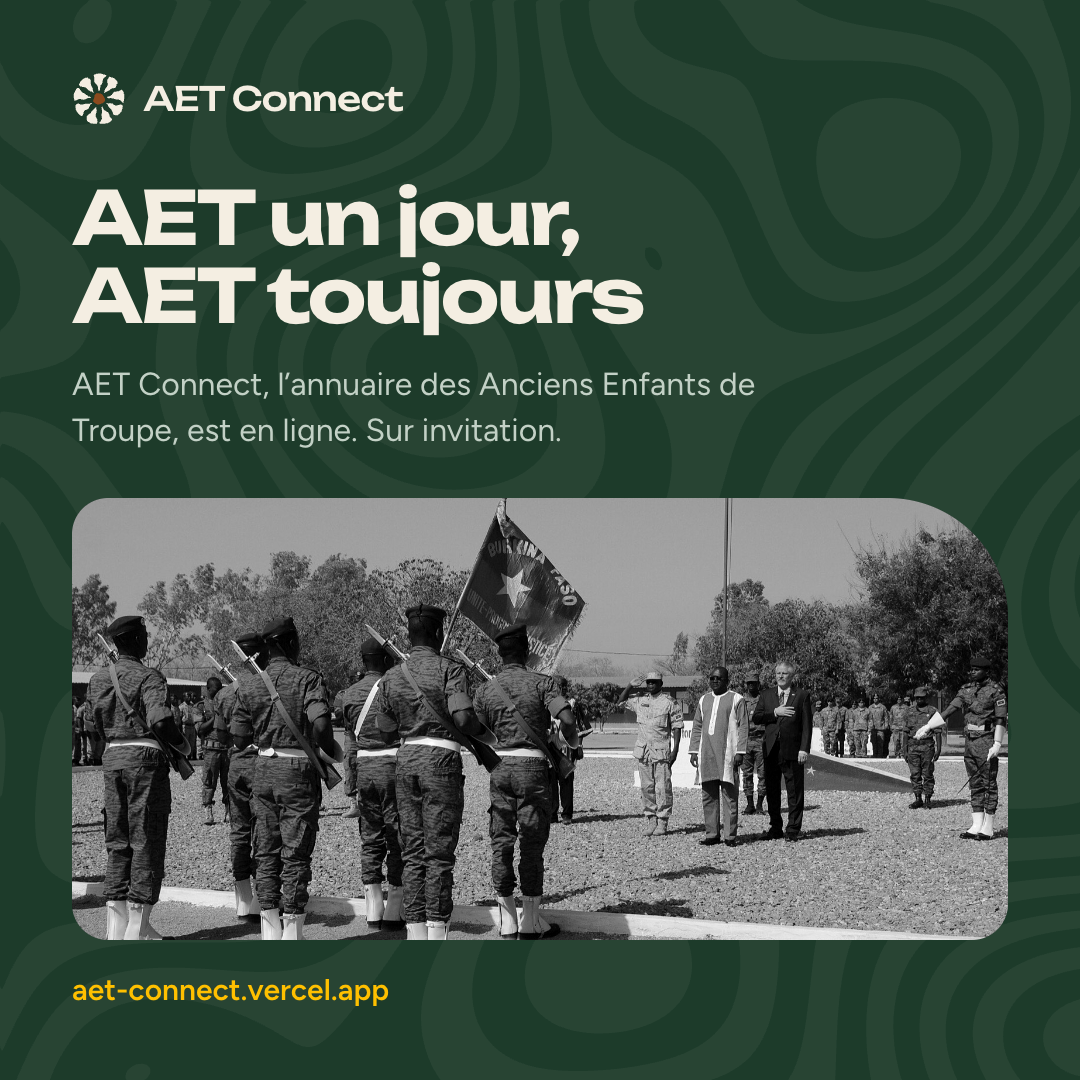
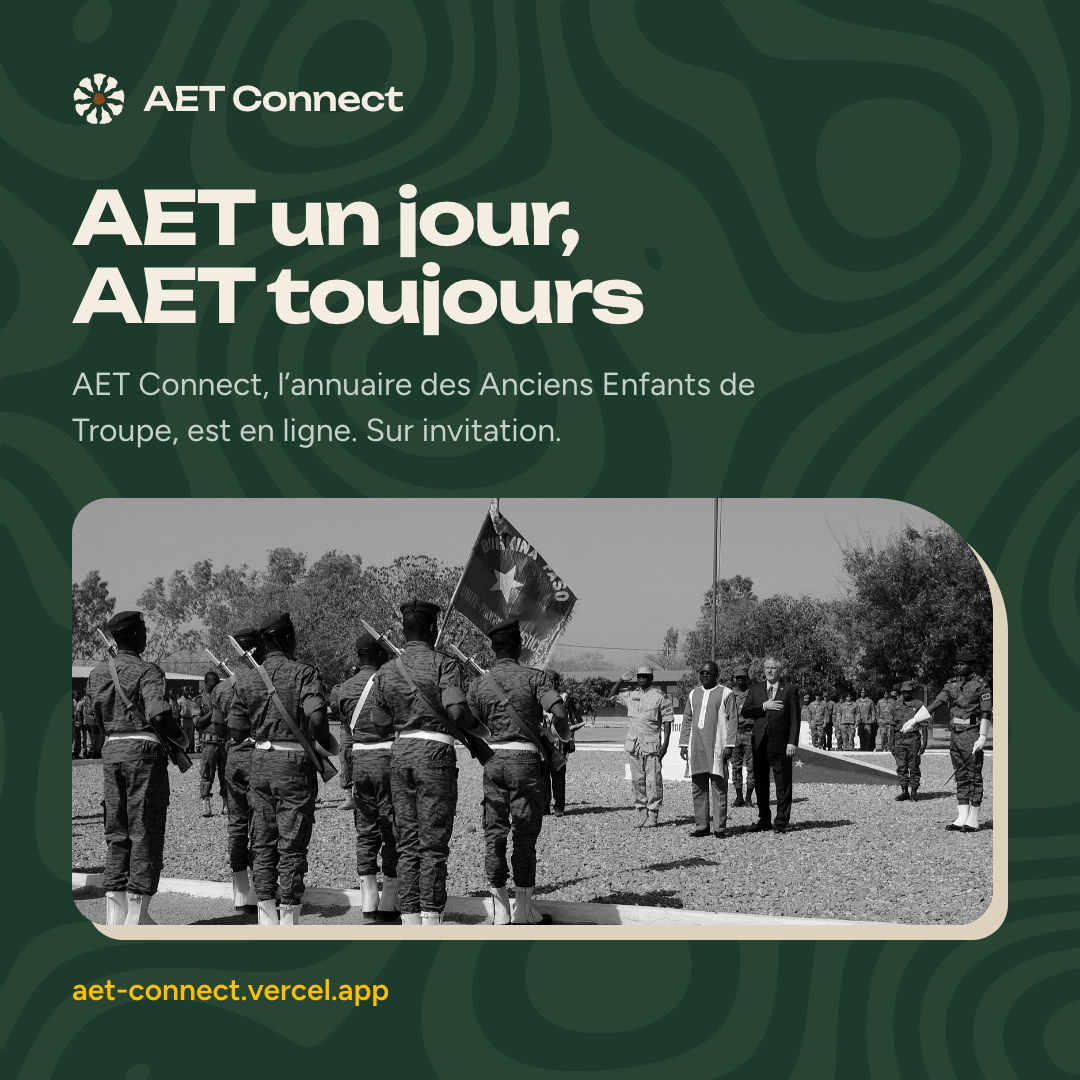
kit réseaux : ombre beige nette décalée derrière les photos, cadrages des visages

Changed region(s): [[0.0611, 0.4583, 0.9472, 0.8861]]

diff --git a/frontend/scripts/kit-reseaux.tsx b/frontend/scripts/kit-reseaux.tsx
@@ -94,7 +94,7 @@ ${trame}
 .titre{font-family:Unbounded,sans-serif;font-weight:700;letter-spacing:-0.03em;line-height:1.06;text-wrap:balance}
 .marque{display:flex;align-items:center;white-space:nowrap}
 .photo{display:block;width:100%;height:100%;object-fit:cover;filter:grayscale(1) contrast(1.06)}
-.cadre{overflow:hidden;background:${C.vertNuit}}
+.cadre{--d:${Math.round(Math.min(l, h) / 72)}px;overflow:hidden;background:${C.vertNuit};box-shadow:var(--d) var(--d) 0 0 ${C.sable};margin-right:var(--d);margin-bottom:var(--d)}
 .or{color:${C.or}}.brume{color:${C.brume}}.olive{color:${C.olive}}.terre{color:${C.terre}}.vert{color:${C.vert}}.creme{color:${C.creme}}
 </style></head><body>${corps}</body></html>`
 }
@@ -123,7 +123,7 @@ function affiche(f: Format, o: { titre: string; texte: string; photo: string; po
           </div>
           <p class="or" style="font-size:24px;font-weight:600">${adresse}</p>
         </div>
-        <div style="padding:20px 20px 20px 0"><div class="cadre" style="height:100%;border-radius:28px 96px 28px 28px">
+        <div style="padding:20px 20px 20px 0;display:flex"><div class="cadre" style="flex:1;border-radius:28px 96px 28px 28px">
           <img class="photo" src="${o.photo}" style="object-position:${o.position ?? 'center'}"></div></div>
       </div>`,
     )
@@ -309,12 +309,12 @@ function couverture(l: number, h: number, o: { marge: string; photos: 0 | 1 | 2;
   const titre = Math.min(h * 0.11, 64)
   const bande =
     o.photos === 2
-      ? `<div style="display:grid;grid-template-columns:1fr 1fr;gap:16px;height:100%;padding:24px 24px 24px 0">
+      ? `<div style="display:grid;grid-template-columns:1fr 1fr;gap:12px;height:100%;padding:24px 24px 24px 0">
         <div class="cadre" style="border-radius:24px"><img class="photo" src="${PHOTO.ceremonie}"></div>
         <div class="cadre" style="border-radius:24px 80px 24px 24px"><img class="photo" src="${PHOTO.promo}" style="object-position:30% center"></div>
       </div>`
       : o.photos === 1
-        ? `<div style="height:100%;padding:20px 20px 20px 0"><div class="cadre" style="height:100%;border-radius:24px 72px 24px 24px"><img class="photo" src="${PHOTO.ceremonie}" style="object-position:center 40%"></div></div>`
+        ? `<div style="height:100%;padding:20px 20px 20px 0;display:flex"><div class="cadre" style="flex:1;border-radius:24px 72px 24px 24px"><img class="photo" src="${PHOTO.ceremonie}" style="object-position:center 40%"></div></div>`
         : ''
   return page(
     l,
@@ -381,15 +381,15 @@ function visuels(): Visuel[] {
       titre: 'Ouvrir la voie pour sa promo',
       texte: 'Personne de votre promo n’est inscrit ? Vous pouvez demander l’accès et proposer de la représenter : 15 invitations pour rassembler les autres.',
       photo: PHOTO.accueil,
-      position: 'center 40%',
+      position: 'center 12%',
     },
     {
       dossier: '05-entraide',
       groupe: '5. Entraide',
       titre: 'Un AET dans chaque ville',
-      texte: 'Pour un conseil, une mise en relation ou un premier contact en arrivant : cherchez un AET par école, promo, pays ou ville.',
+      texte: 'Pour un conseil, une mise en relation ou un premier contact en arrivant : vous pouvez chercher un AET par école, promo, pays ou ville.',
       photo: PHOTO.secours,
-      position: 'center 40%',
+      position: 'center 8%',
     },
   ]
   for (const a of affiches) {
